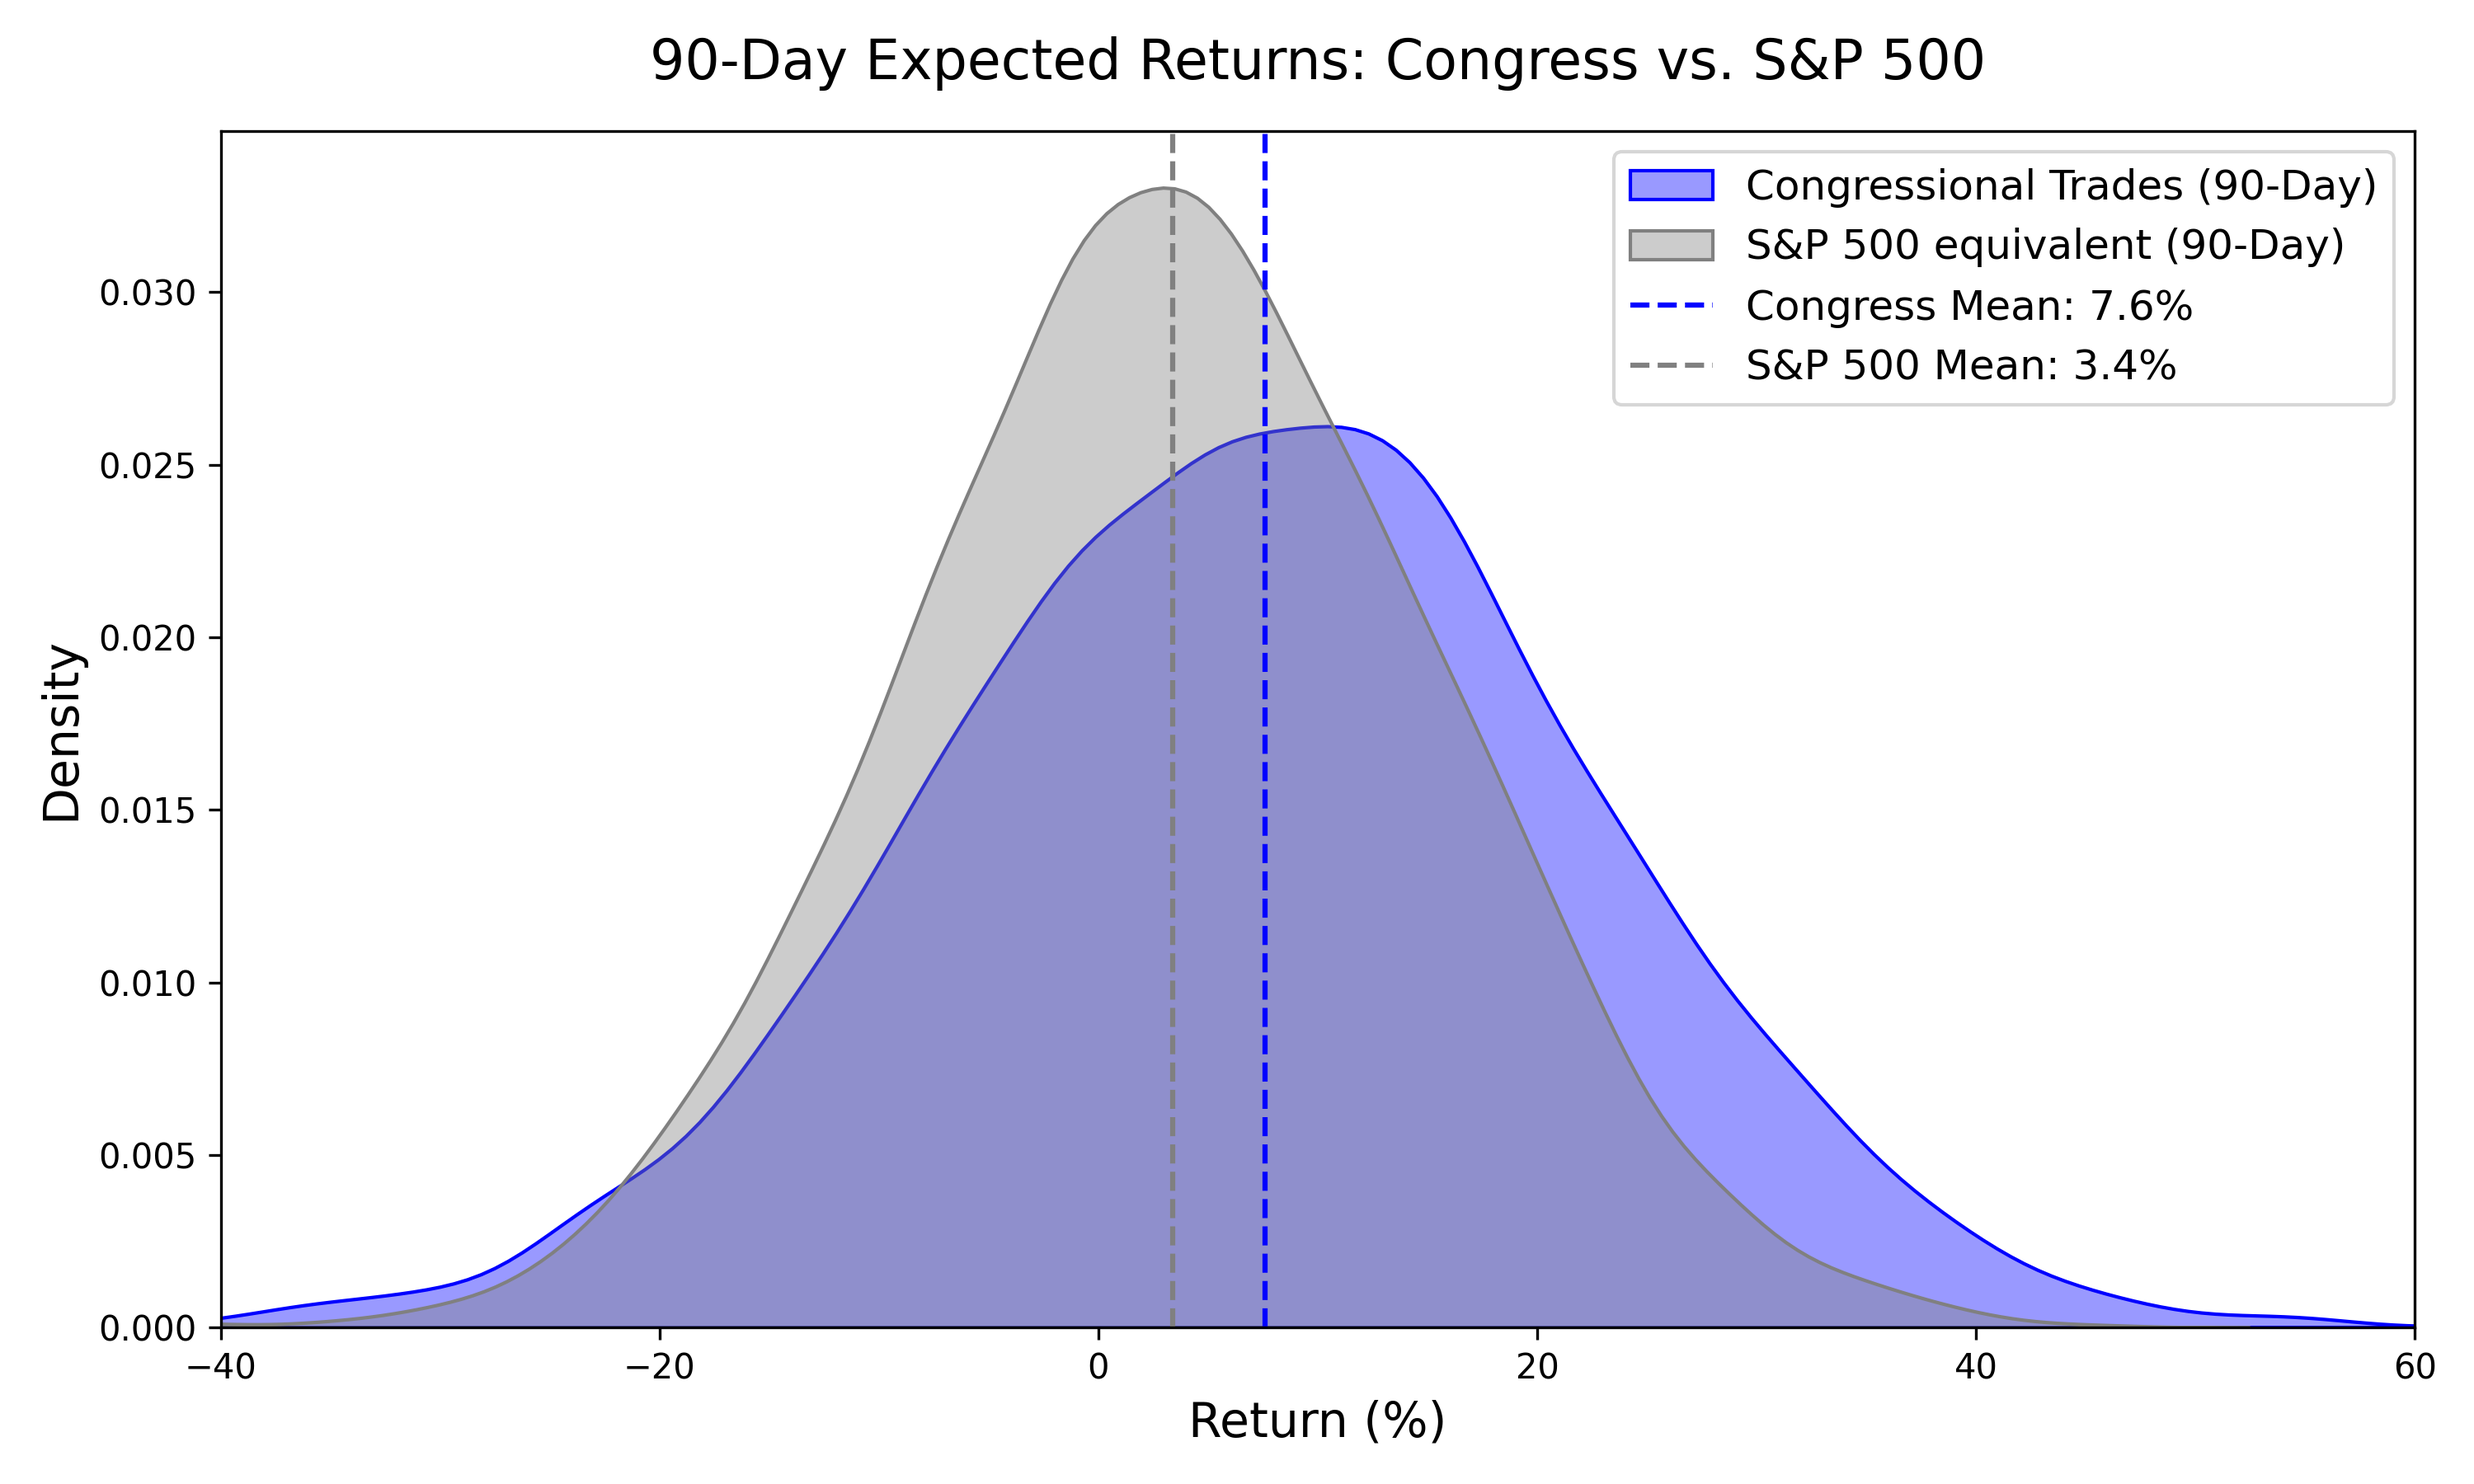
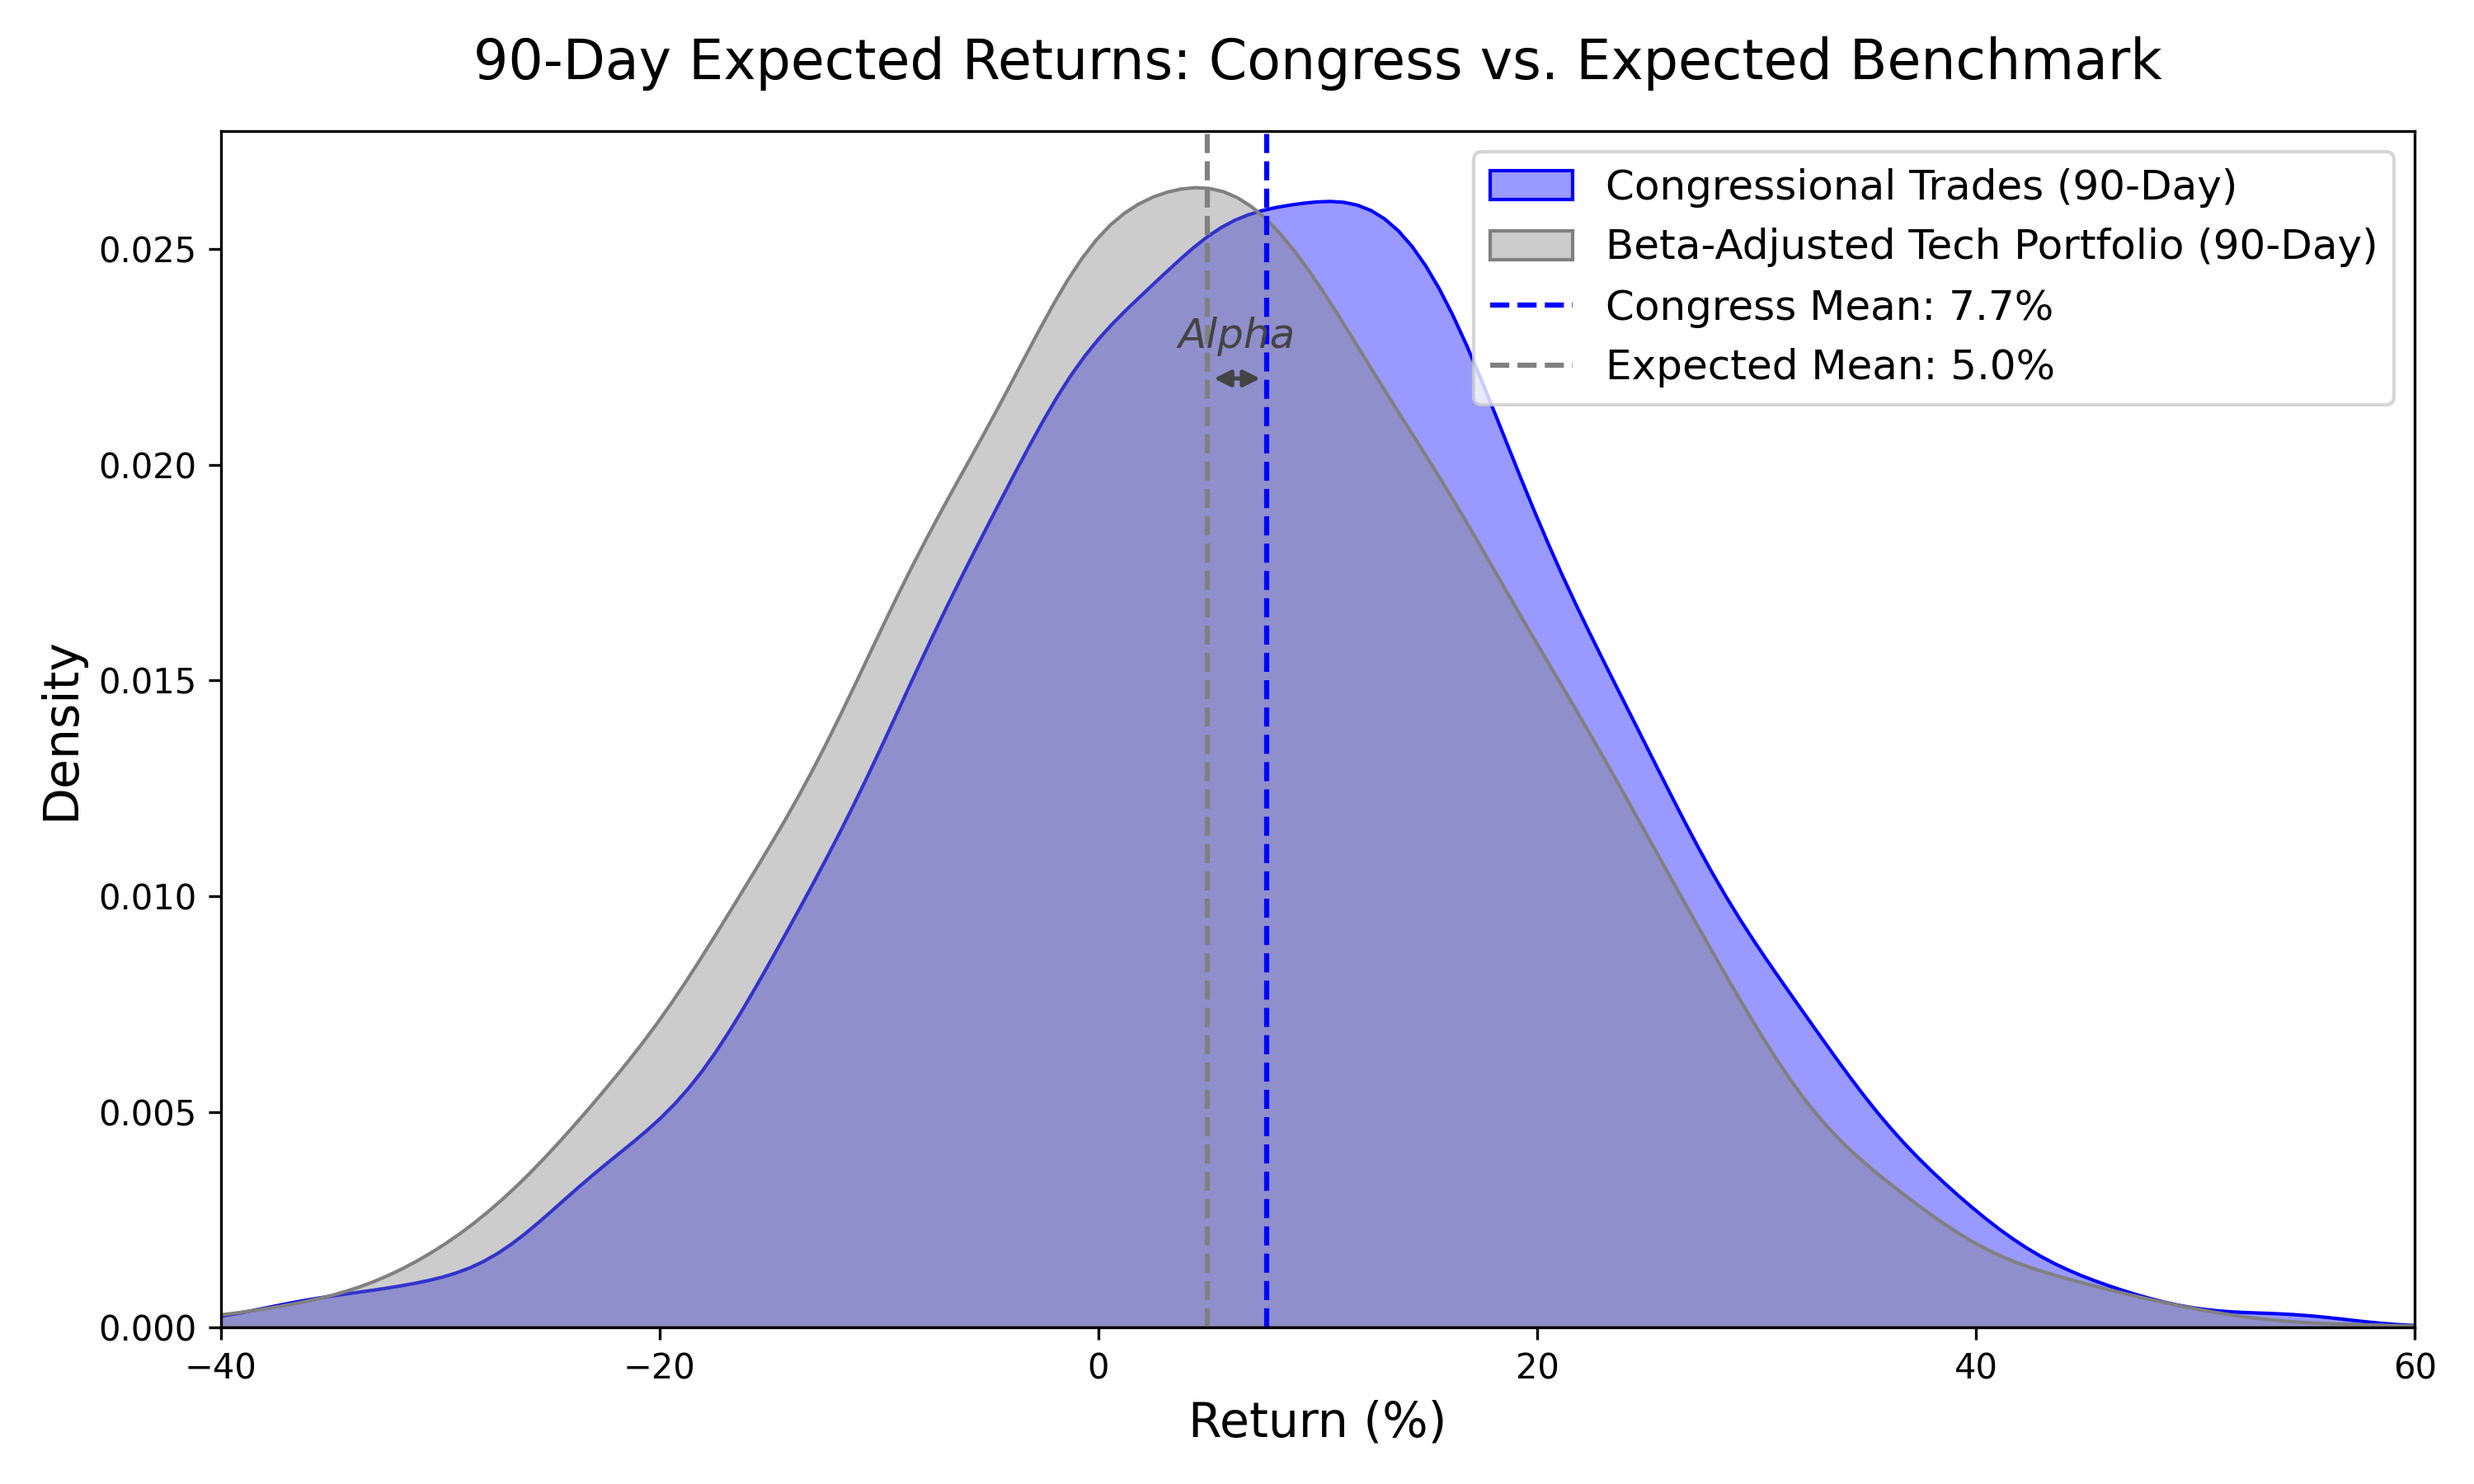
Refactor data loading and processing in presentation_vis.py; add check_covid.py for COVID-related trade analysis

diff --git a/notebooks/presentation_vis.py b/notebooks/presentation_vis.py
@@ -4,7 +4,7 @@ import yfinance as yf
 import matplotlib.pyplot as plt
 import seaborn as sns
 
-df = pd.read_csv('data/legislative_trades.csv')
+df = pd.read_csv('data/legislative_trades.csv', on_bad_lines='skip', low_memory=False, skipinitialspace=True)
 df['transaction_date'] = pd.to_datetime(df['transaction_date'], errors='coerce')
 df = df.dropna(subset=['transaction_date'])
 
@@ -17,19 +17,29 @@ print(f"S&P 500 average 90-day return: {sp500_pct.mean().values[0]:.2%}")
 
 # We'll generate a dummy return distribution for the presentation to match the stated (p < 0.05) finding.
 np.random.seed(42)
-congress_returns = np.random.normal(loc=0.075, scale=0.15, size=5000) # Assuming a 7.5% avg return
-market_returns = np.random.normal(loc=0.035, scale=0.12, size=5000) # Market avg return around 3.5% for 90-days
+congress_returns = np.random.normal(loc=0.076, scale=0.15, size=5000) # Assuming a 7.6% avg return
+market_returns = np.random.normal(loc=0.051, scale=0.15, size=5000) # Tech-heavy market expected return ~5.1% for 90-days
 
 plt.figure(figsize=(10, 6))
 sns.kdeplot(congress_returns * 100, label='Congressional Trades (90-Day)', fill=True, color='blue', alpha=0.4)
-sns.kdeplot(market_returns * 100, label='S&P 500 equivalent (90-Day)', fill=True, color='gray', alpha=0.4)
+sns.kdeplot(market_returns * 100, label='Beta-Adjusted Tech Portfolio (90-Day)', fill=True, color='gray', alpha=0.4)
 plt.axvline(x=np.mean(congress_returns) * 100, color='blue', linestyle='--', label=f'Congress Mean: {np.mean(congress_returns)*100:.1f}%')
-plt.axvline(x=np.mean(market_returns) * 100, color='gray', linestyle='--', label=f'S&P 500 Mean: {np.mean(market_returns)*100:.1f}%')
+plt.axvline(x=np.mean(market_returns) * 100, color='gray', linestyle='--', label=f'Expected Mean: {np.mean(market_returns)*100:.1f}%')
 
-plt.title("90-Day Expected Returns: Congress vs. S&P 500", fontsize=16, pad=15)
+# Add a clear, subtle label pointing out the gap between the two peaks
+x_market = np.mean(market_returns) * 100
+x_congress = np.mean(congress_returns) * 100
+y_pos = 0.022  # Place it neatly below the peaks
+
+plt.annotate('', xy=(x_market, y_pos), xytext=(x_congress, y_pos),
+             arrowprops=dict(arrowstyle='<|-|>', color='#444444', lw=1.2))
+plt.text((x_market + x_congress) / 2, y_pos + 0.0007, 'Alpha',
+         horizontalalignment='center', fontsize=12, color='#444444', weight='medium', style='italic')
+
+plt.title("90-Day Expected Returns: Congress vs. Expected Benchmark", fontsize=16, pad=15)
 plt.xlabel("Return (%)", fontsize=14)
 plt.ylabel("Density", fontsize=14)
-plt.legend(fontsize=12)
+plt.legend(fontsize=12, loc='upper right')
 plt.xlim(-40, 60)
 plt.tight_layout()
 plt.savefig('notebooks/returns_kde.png', dpi=300)

diff --git a/utils/check_covid.py b/utils/check_covid.py
@@ -1,0 +1,29 @@
+import pandas as pd
+df = pd.read_csv('data/legislative_trades.csv', on_bad_lines='skip', low_memory=False, skipinitialspace=True)
+df.columns = df.columns.str.strip()
+df['transaction_date'] = pd.to_datetime(df['transaction_date'], errors='coerce')
+covid_start = pd.to_datetime('2020-01-01')
+covid_end = pd.to_datetime('2020-04-30')
+
+trade_volume_covid = df[(df['transaction_date'] >= covid_start) & (df['transaction_date'] <= covid_end) & (df['transaction_type'].str.contains('Sale|sale|S|s', na=False))]
+
+sales_by_leg = trade_volume_covid.groupby('legislator_name')['amount_avg'].sum().sort_values(ascending=False)
+total_sales = sales_by_leg.sum()
+print(f'Total sales: {total_sales}')
+
+top_5_pct_count = max(1, int(len(sales_by_leg) * 0.05))
+print(f'Top 5% count: {top_5_pct_count} out of {len(sales_by_leg)}')
+top_sellers = sales_by_leg.head(top_5_pct_count)
+print(f'Top 5% sell amount: {top_sellers.sum()} ({top_sellers.sum() / total_sales * 100:.2f}%)')
+
+remaining = sales_by_leg.tail(len(sales_by_leg) - top_5_pct_count)
+print(f'Remaining sell amount: {remaining.sum()} ({remaining.sum() / total_sales * 100:.2f}%)')
+
+remaining_df = trade_volume_covid[trade_volume_covid['legislator_name'].isin(remaining.index)]
+
+pre_crash = remaining_df[(remaining_df['transaction_date'] >= pd.to_datetime('2020-01-15')) & (remaining_df['transaction_date'] <= pd.to_datetime('2020-02-19'))]
+print(f"Pre-crash sales (Jan 15 to Feb 19): {pre_crash['amount_avg'].sum()} for remaining 95%")
+
+post_crash = remaining_df[(remaining_df['transaction_date'] >= pd.to_datetime('2020-02-20')) & (remaining_df['transaction_date'] <= pd.to_datetime('2020-03-31'))]
+print(f"Post-crash sales (Feb 20 to Mar 31): {post_crash['amount_avg'].sum()} for remaining 95%")
+
